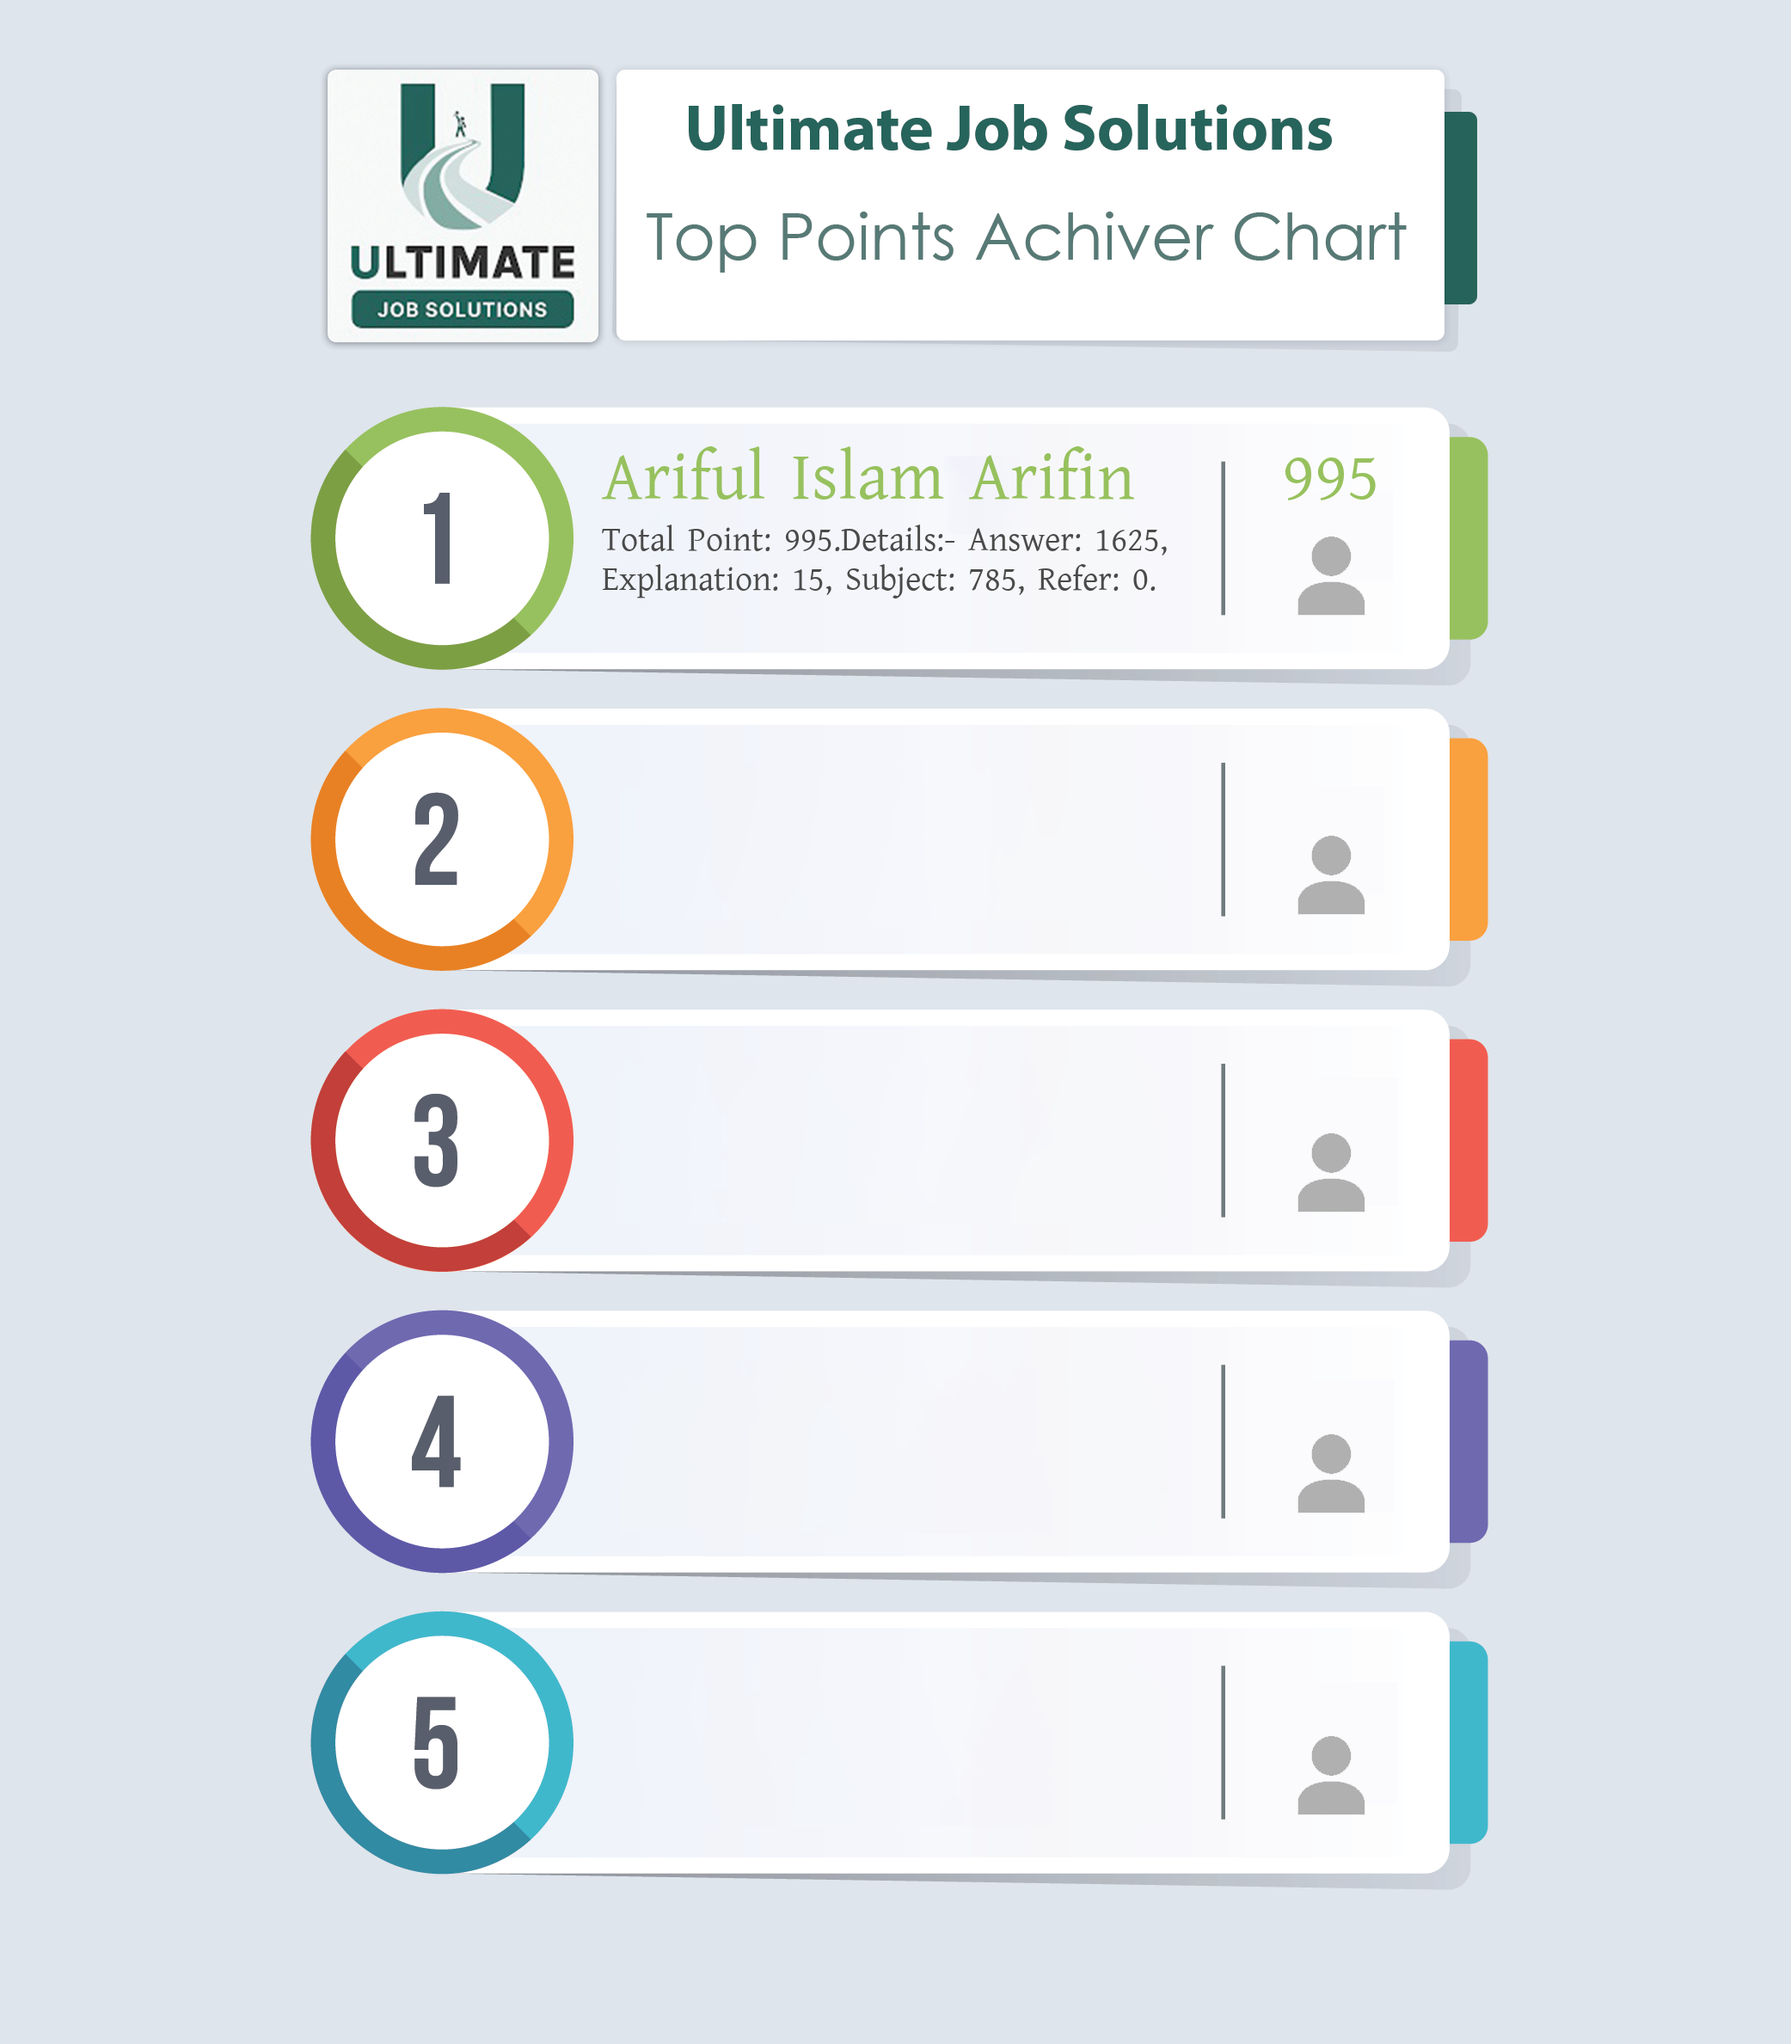
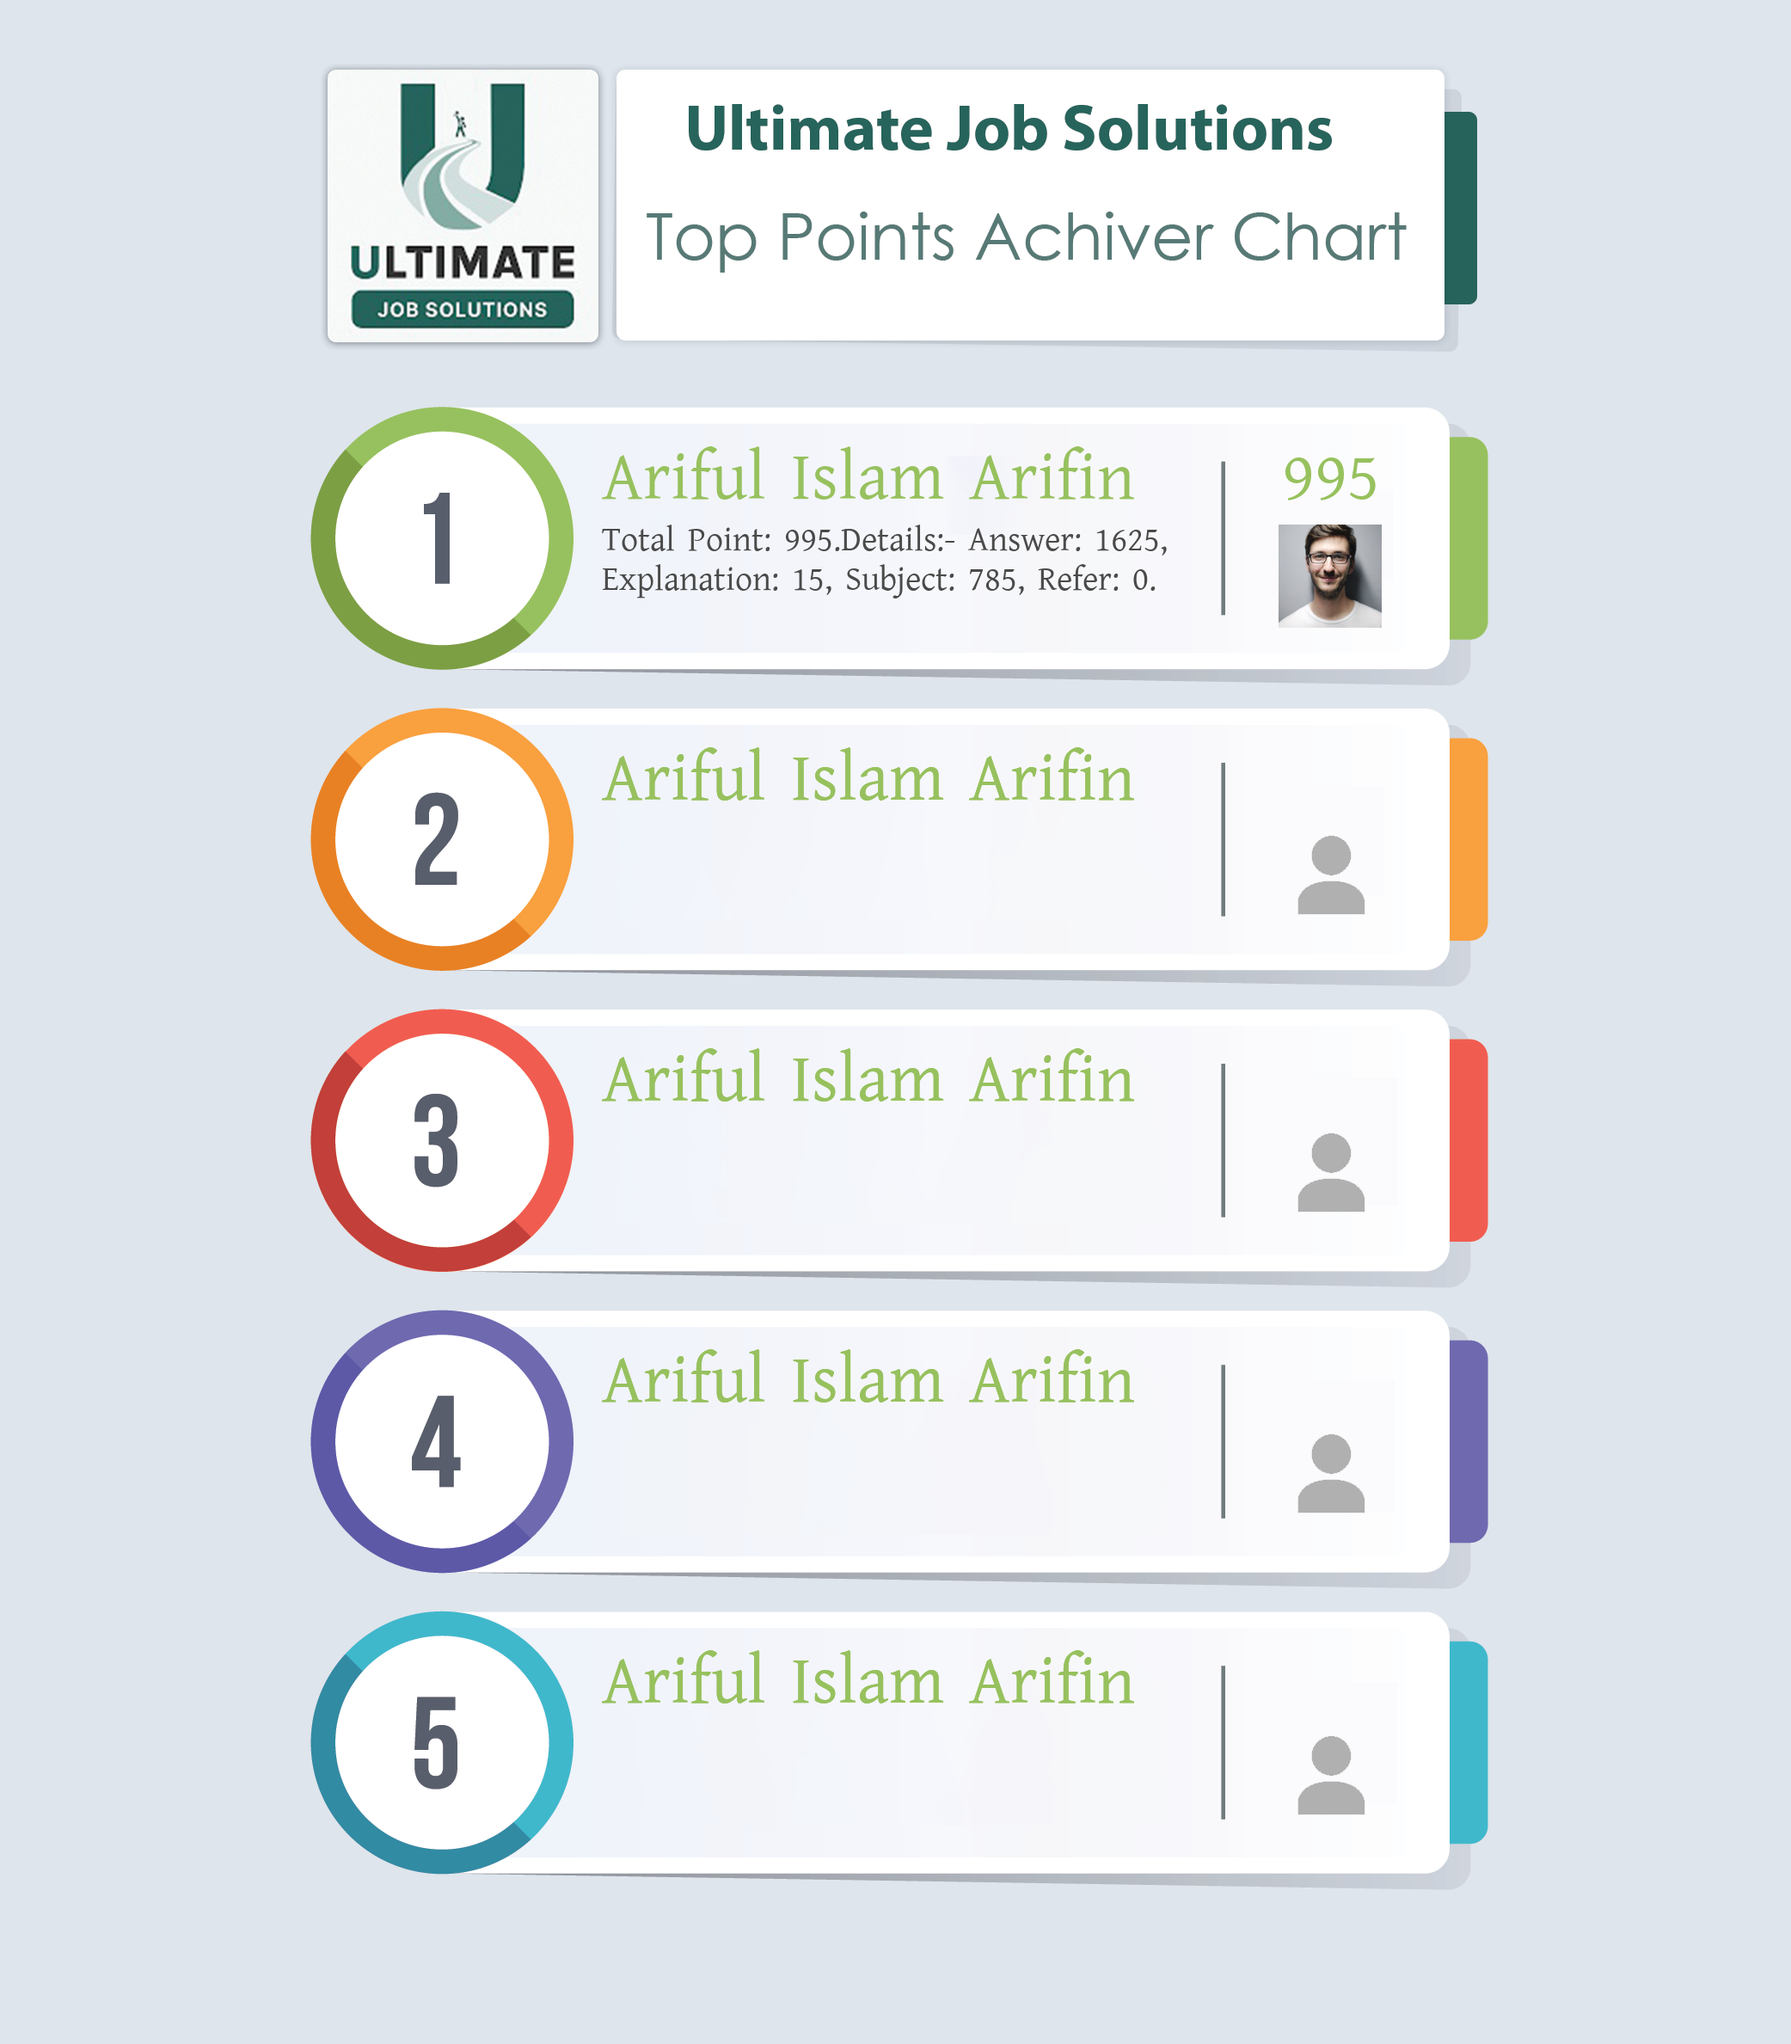
distance factor revised

diff --git a/main.py b/main.py
@@ -66,6 +66,13 @@ pp = square_crop_image(pp)
 pp = pp.resize((120, 120))
 img.paste(pp, (1487, 610))
 
+# second point achiver distance calculate
+txt = "Ariful Islam Arifin"
+factor = 350
+for i in range(1, 5):
+    draw.text((700, 500+(factor*i)), txt,(151, 193, 94), font=namefont)
+    draw.text((700, 500+(factor*i)), txt,(151, 193, 94), font=namefont)
+
 # This method will show image in any image viewer 
 # img.save('generated.png')
 img.show()

diff --git a/points.py b/points.py
@@ -6,7 +6,7 @@ points = [
         'explanation': 15,
         'subject': 785,
         'refer': 0,
-        'image': None,
+        'image': 'profile-pic.jpeg',
     },
     {
         'name': 'পিপীলিকা পাঠান',
